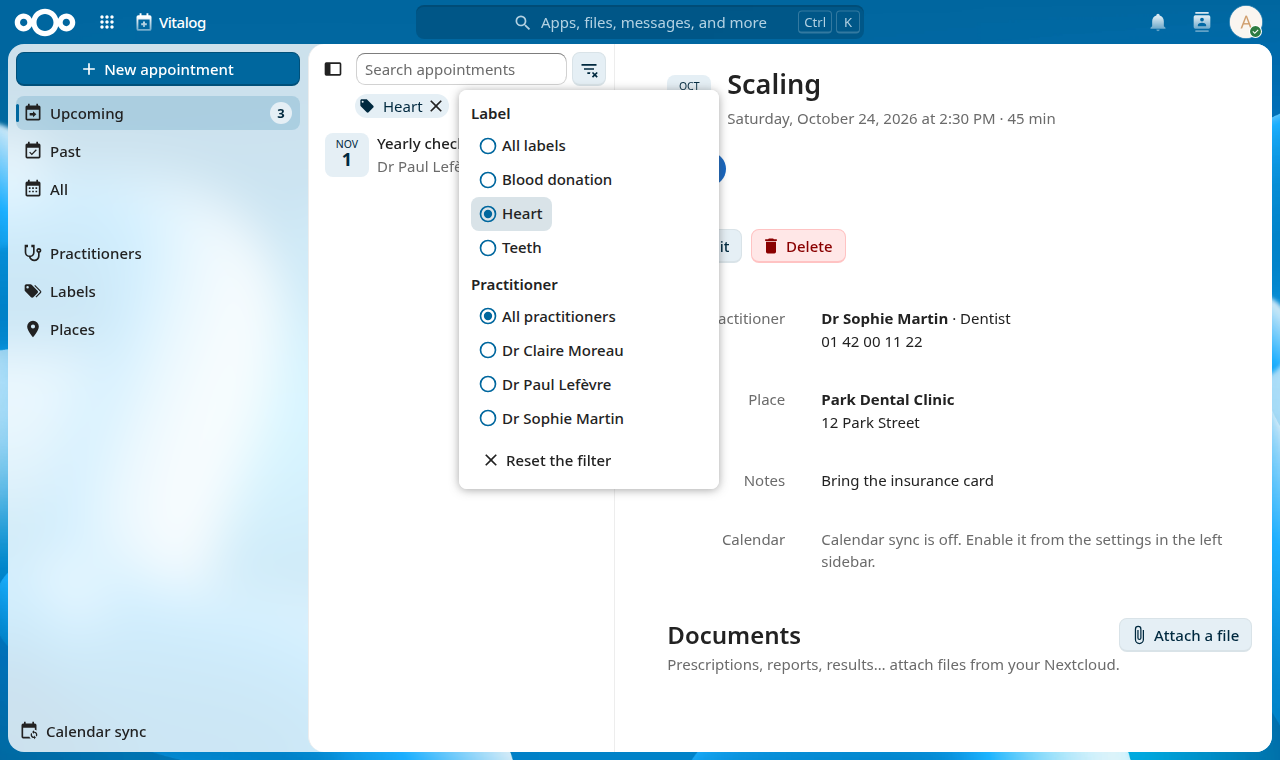
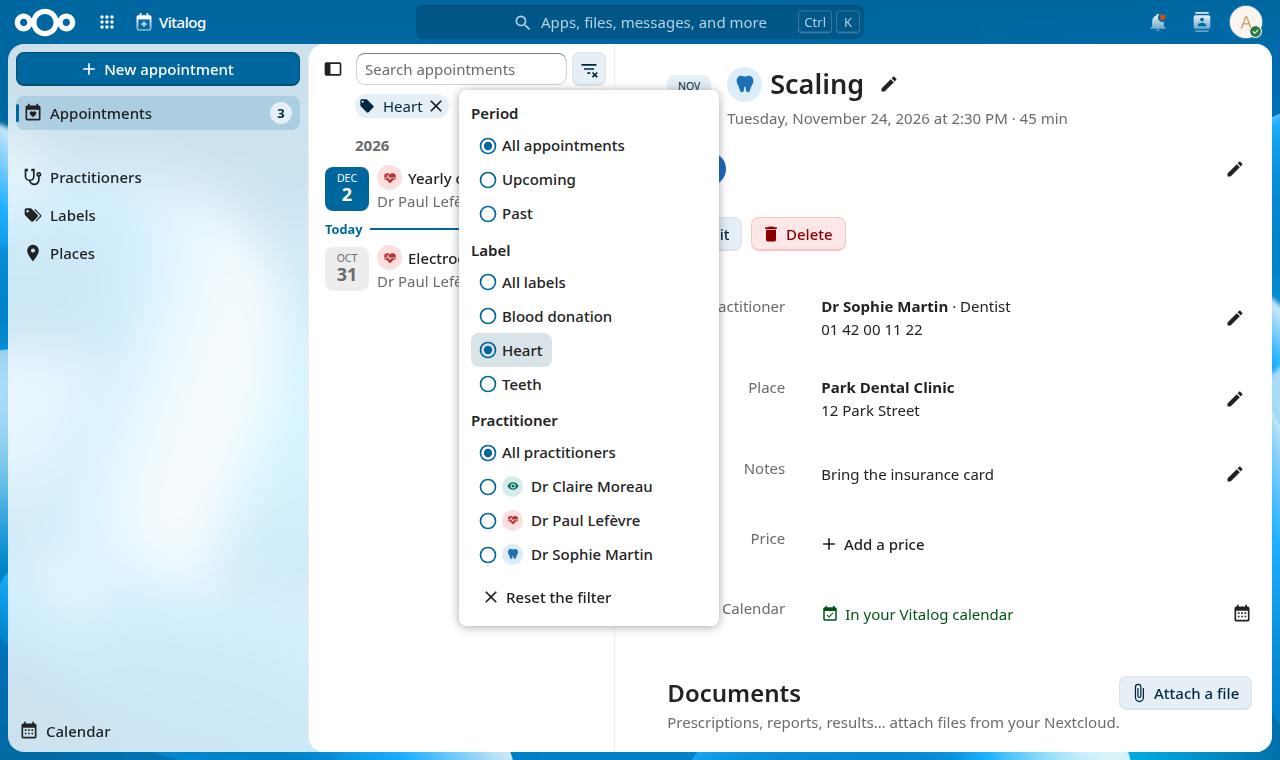
Release 0.3.0
Store screenshots regenerated for the single appointment list, the icons and
the .ics import; the screenshot script now opens the next appointment.

Claude-Session: https://claude.ai/code/session_014MDpMnxGqzgwsWv2Csif2U

diff --git a/CHANGELOG.md b/CHANGELOG.md
@@ -3,7 +3,7 @@
 All notable changes to this project are documented here. The format follows [Keep a Changelog](https://keepachangelog.com/en/1.1.0/)
 and the project adheres to [Semantic Versioning](https://semver.org/).
 
-## Unreleased
+## 0.3.0 - 2026-11-20
 
 ### Added
 - New appointment from an .ics file (the attachment of a booking platform such as Doctolib): the form is filled with the date, the duration, the notes and the practitioner recognised in the title, word by word, without accents, case or title ("Rendez-vous chez Mme Léa Fontaine" finds "Léa Fontaine-Morel"). A title that only names the practitioner gives the reason of the last appointment with them. The place is found by name or address, else it is the practitioner's usual place, else the address of the file can become a new place in one click. The same event is never imported twice.
